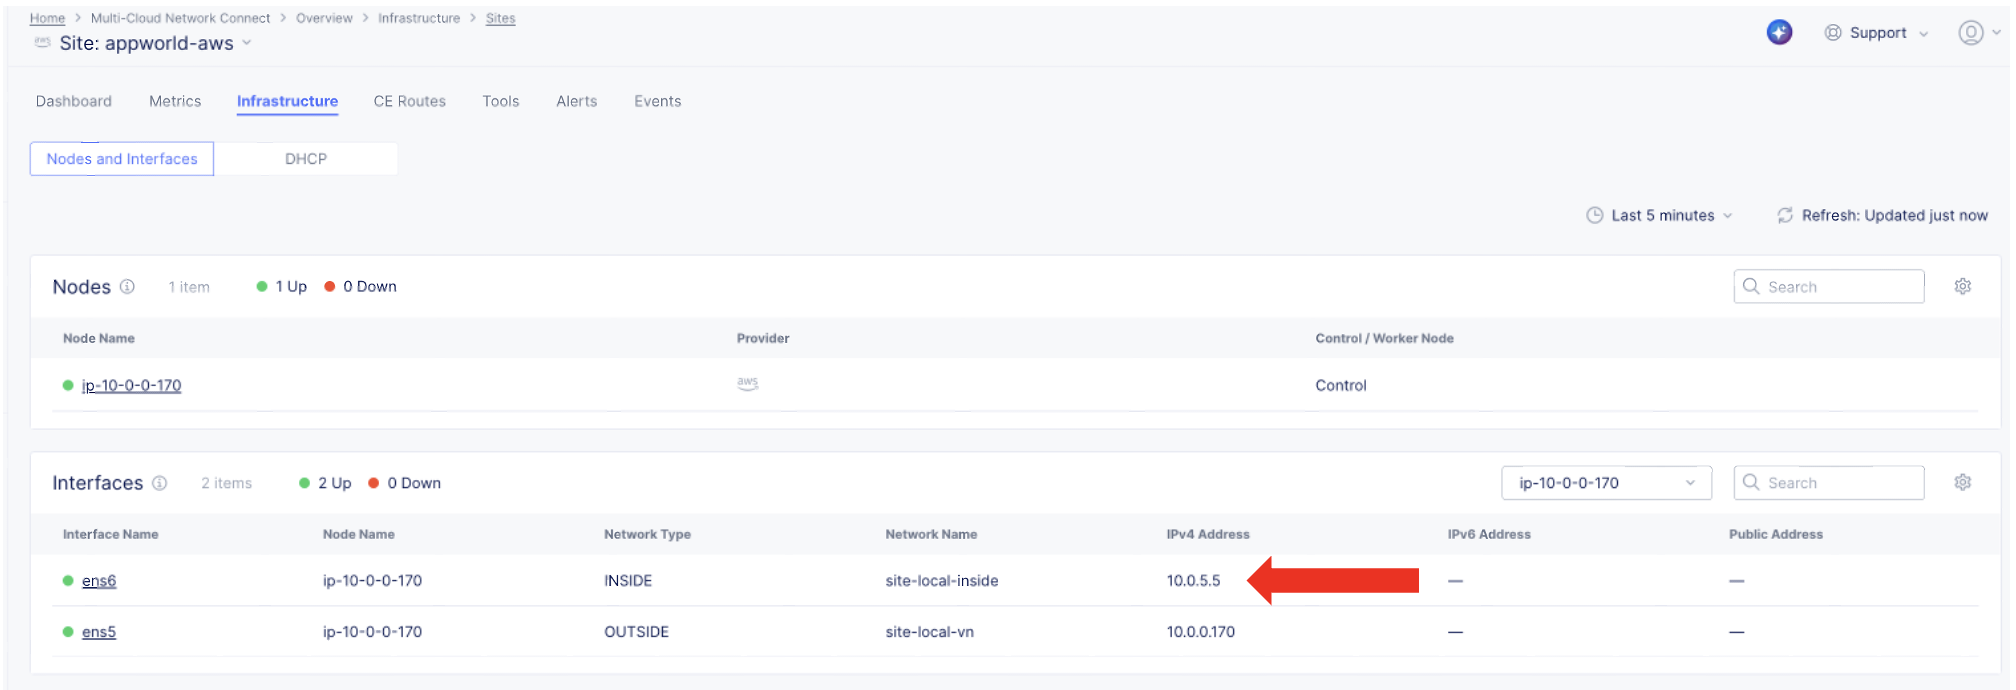
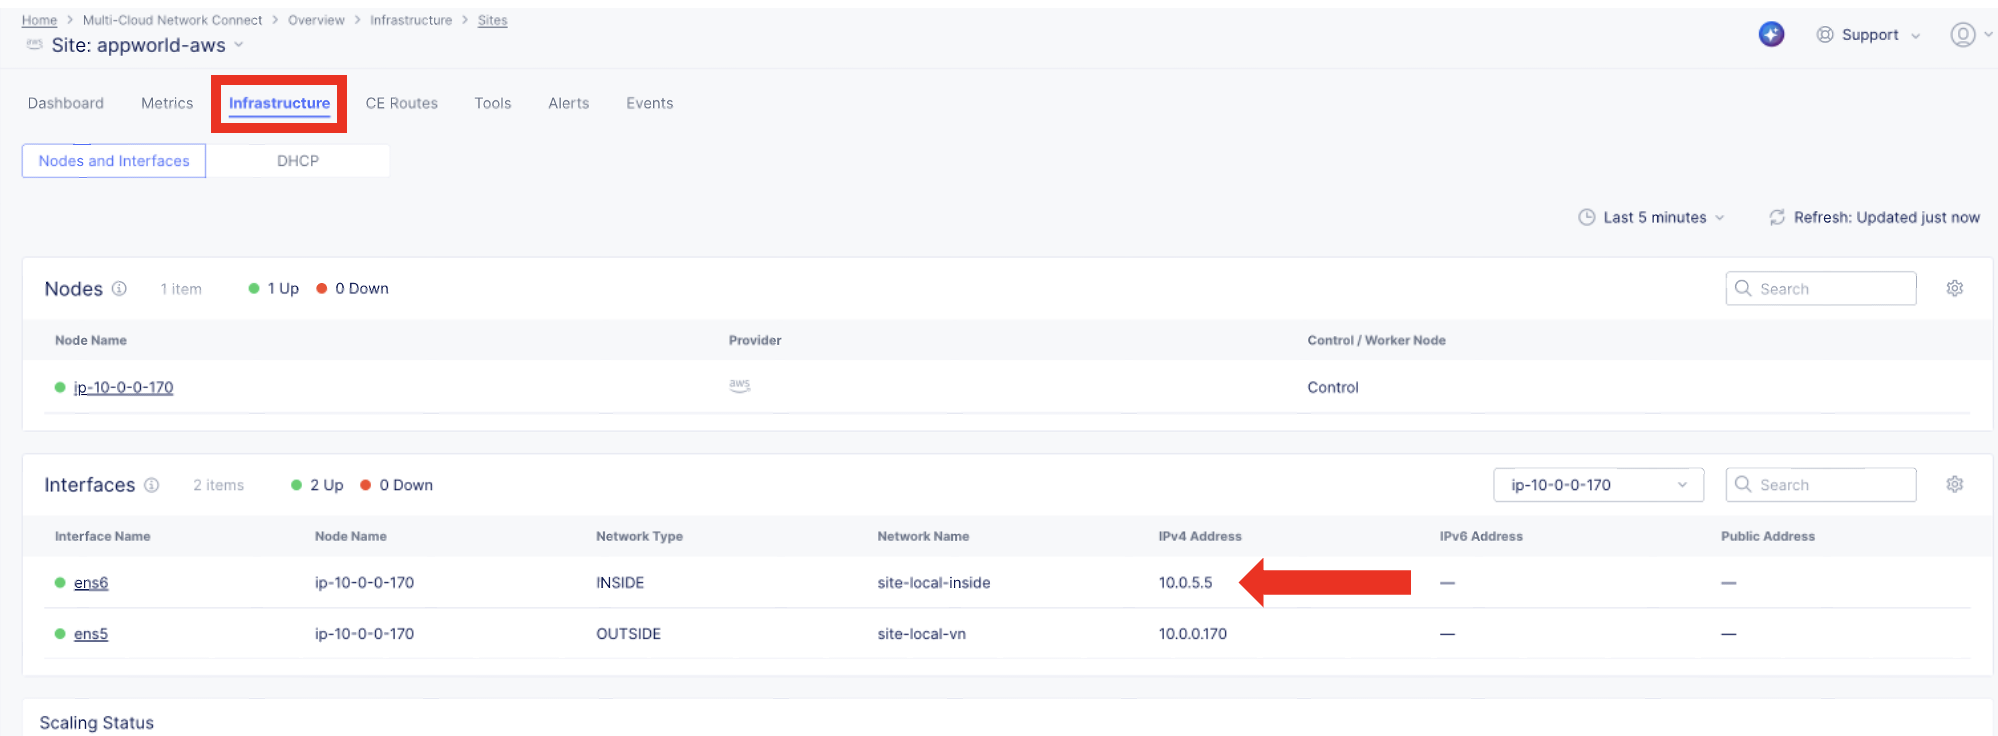
lab 4 pic update

diff --git a/docs/class6/module2/lab4.rst b/docs/class6/module2/lab4.rst
@@ -289,8 +289,10 @@ Let's test the connectivity between AWS and Azure through the internal load bala
 
 42. First, verify the inside interface IP of the AWS CE node.
 
-43. Navigate to **Multi-Cloud Network Connect >> Manage >> Site Management >> AWS VPC Sites**.
+43. Navigate to **Multi-Cloud Network Connect >> Manage >> Site Management >> Secure Mesh Sites v2.
 
+    |lab032|
+    
 44. Click on **appworld-aws**.
 
 45. Navigate to the **Infrastructure** tab and note the inside interface IP address.
@@ -553,4 +555,6 @@ control over application traffic.
 .. |lab030| image:: ../images/temp/lab4/403.png
    :width: 800px
 .. |lab031| image:: ../images/temp/lab4/200.png
+   :width: 800px
+.. |lab032| image:: ../images/temp/lab4/smsv2-aws.png
    :width: 800px
